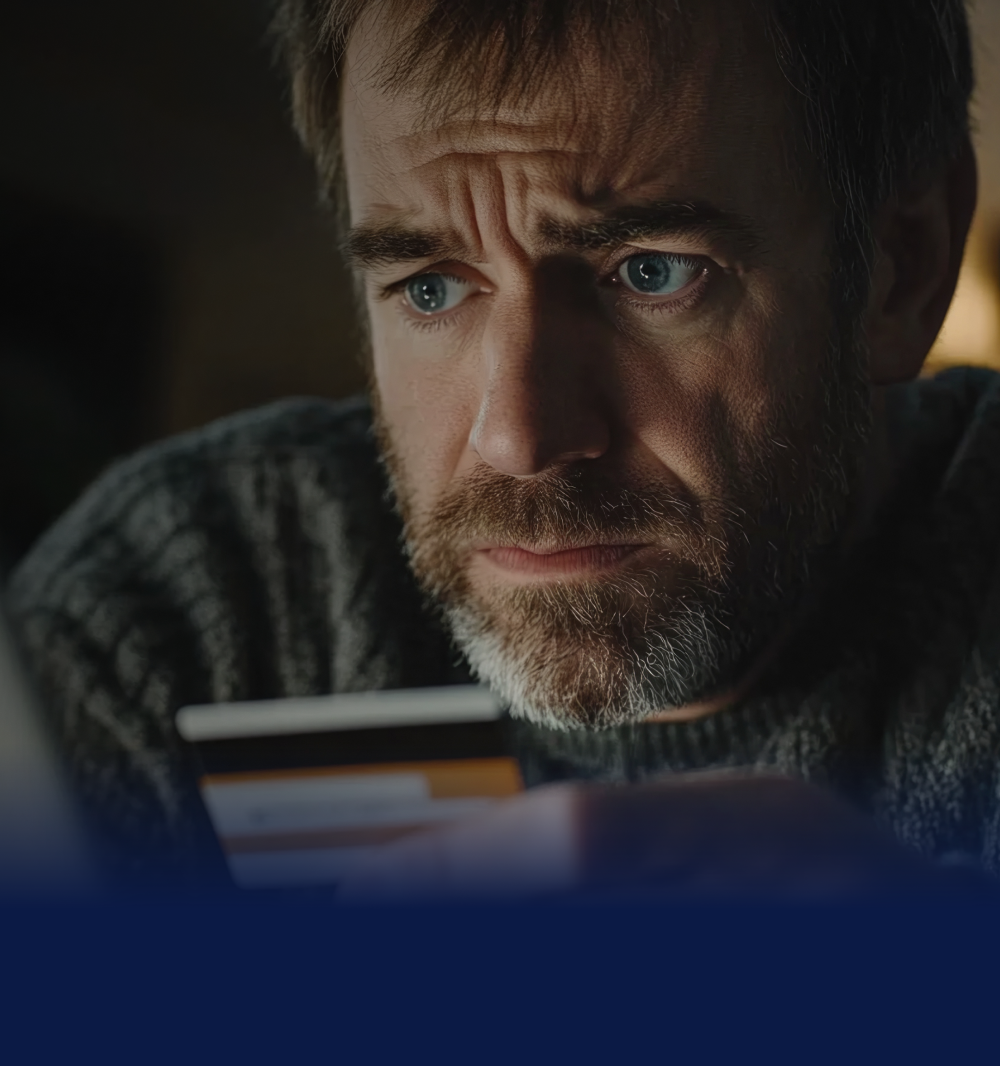
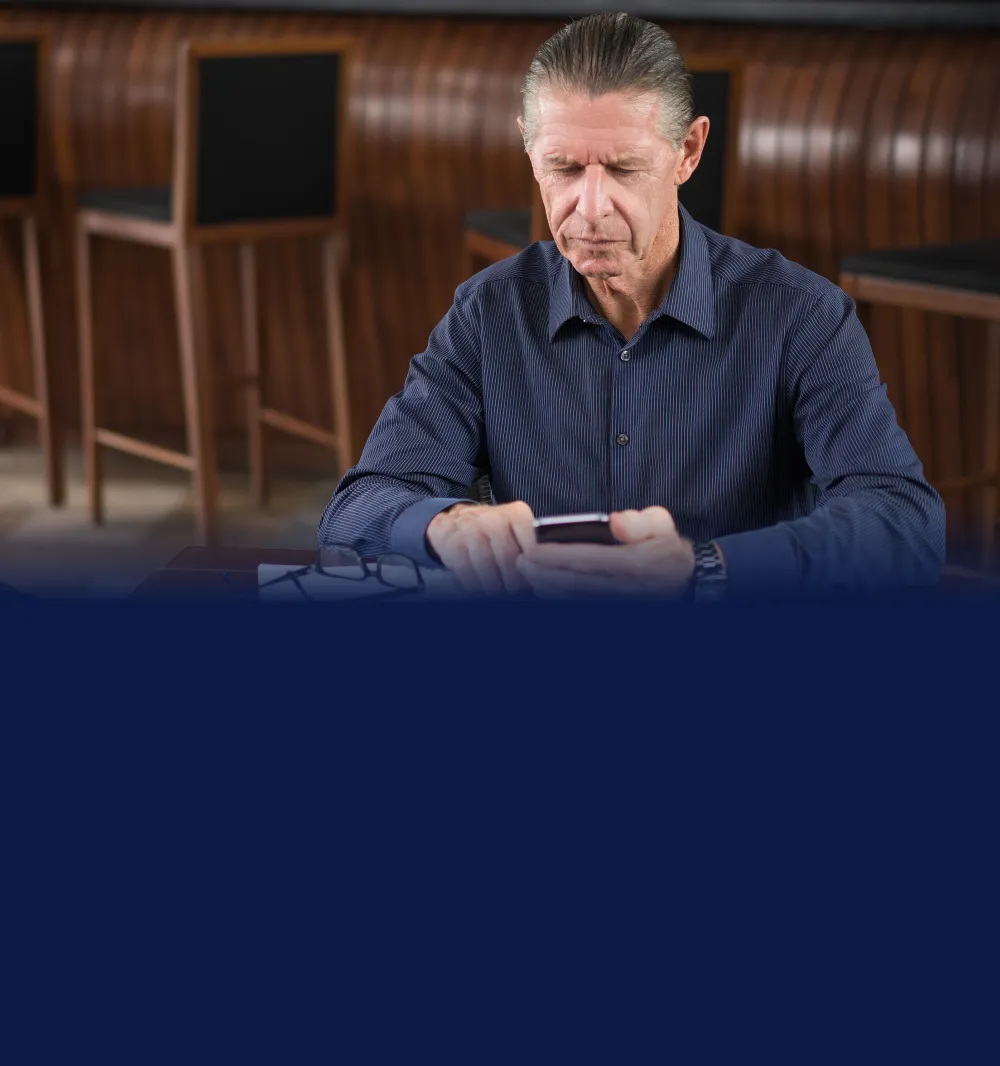
alterando imagem

diff --git a/lp-especifica-v1/styles.css b/lp-especifica-v1/styles.css
@@ -463,7 +463,7 @@ footer section{
     font-size: 14px;
   }
 
-  main .hero .content-text h2 {
+  main .hero .content-text h1 {
     font-size: 32px;
   }
 
@@ -561,7 +561,7 @@ footer section{
     width: 90%;
   }
 
-  main .hero .content-text h2 {
+  main .hero .content-text h1 {
     font-size: 40px;
   }
 
